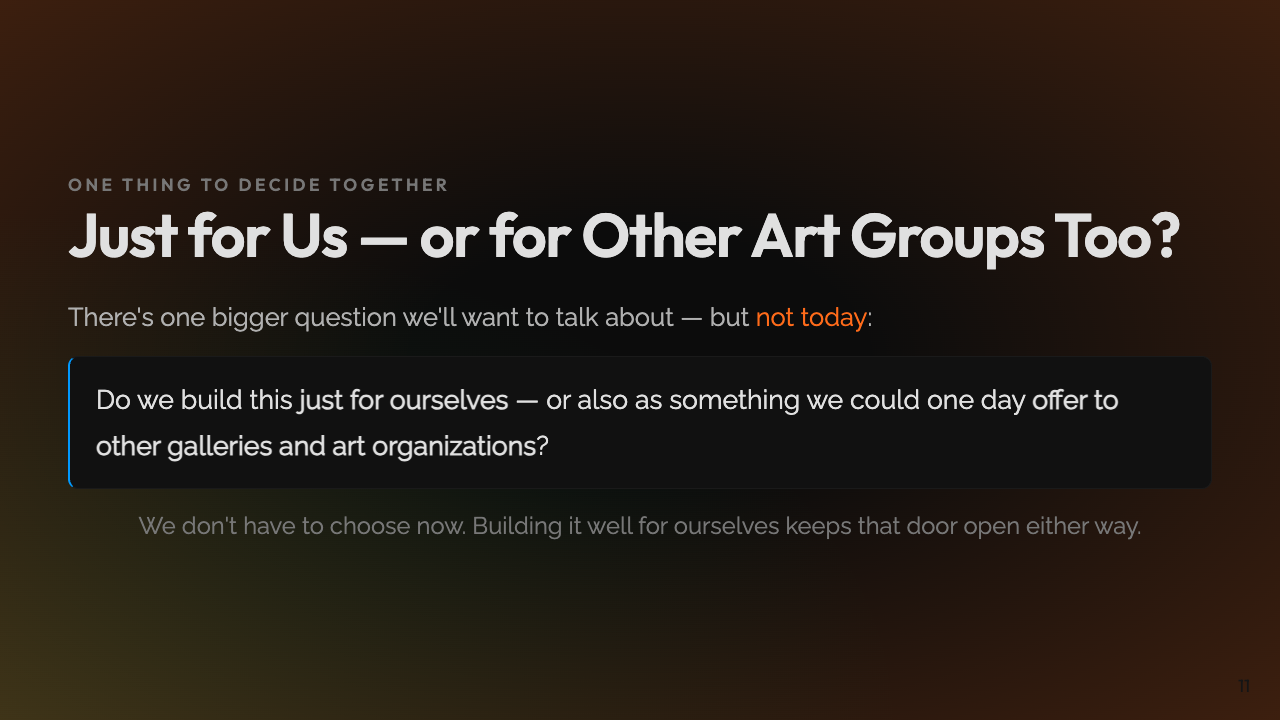
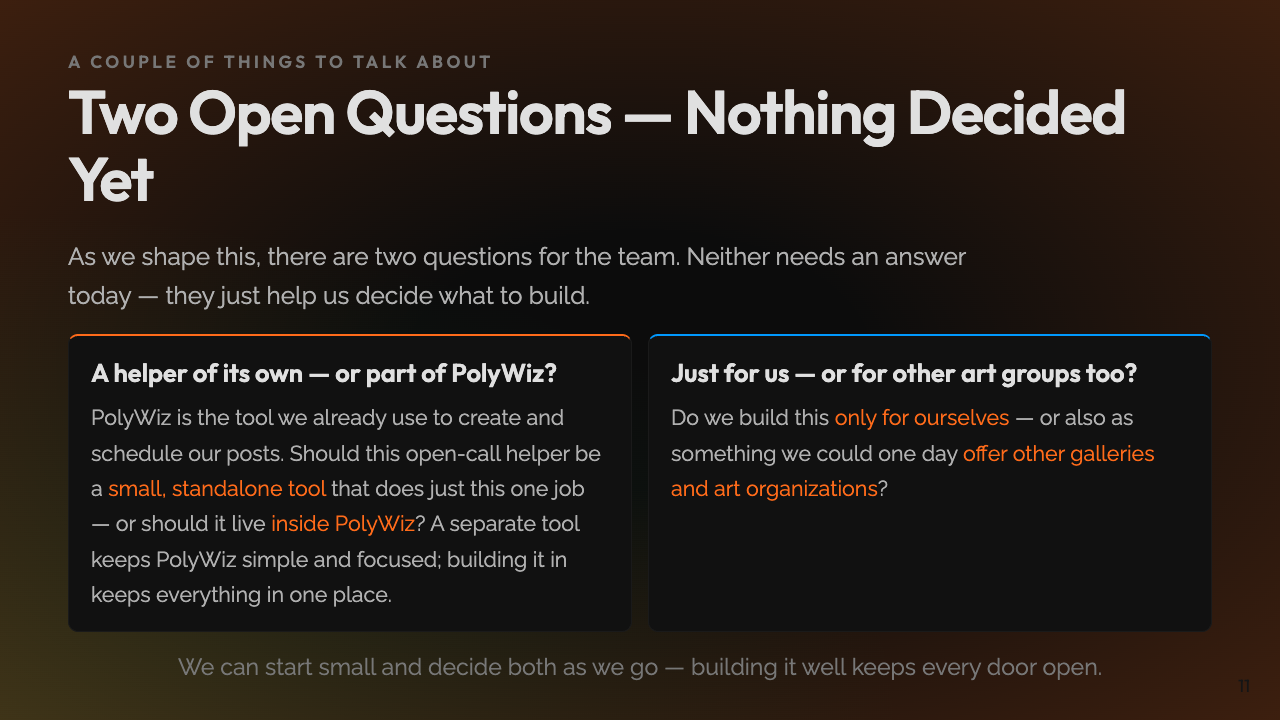
Stakeholder deck: add the standalone-vs-PolyWiz open question
Stakeholders already know PolyWiz, and whether the open-call helper is a
standalone quick-check utility or part of PolyWiz is an open question.
Reframed the closing decision slide from one question to two (plain
English): "a helper of its own — or part of PolyWiz?" alongside the
existing "just for us — or for other art groups too?". Re-exported
stakeholder deck (light/dark html, light pdf, audit).

diff --git a/exports/exhibit-promo-tool-stakeholders-light.html b/exports/exhibit-promo-tool-stakeholders-light.html
@@ -768,13 +768,20 @@ table, thead, tbody, tr, th, td { background: transparent !important; }
 a { color: inherit; }
 " lang="C" class="bg-glow" data-marpit-pagination="11" style="--paginate:true;--class:bg-glow;--theme:default;--style:@import url('https://fonts.googleapis.com/css2?family=Outfit:wght@400;600;700;800&amp;family=Inter:wght@300;400;500&amp;display=swap')
 ;" data-marpit-pagination-total="12">
-<h3 id="one-thing-to-decide-together">One Thing to Decide Together</h3>
-<h1 id="just-for-us--or-for-other-art-groups-too">Just for Us — or for Other Art Groups Too?</h1>
-<div style="font-size: 0.88em; color: var(--body); margin-top: 10px; max-width: 880px; line-height: 1.65;">There's one bigger question we'll want to talk about — but <strong>not today</strong>:</div>
-<div style="margin-top: 18px; background: var(--s); border: 1px solid var(--b); border-left: 2px solid var(--blue); border-radius: 10px; padding: 20px 26px;">
-  <div style="font-size: 0.92em; color: var(--t); line-height: 1.7;">Do we build this <strong style="color:var(--t); font-weight:600;">just for ourselves</strong> — or also as something we could one day <strong style="color:var(--t); font-weight:600;">offer to other galleries and art organizations</strong>?</div>
+<h3 id="a-couple-of-things-to-talk-about">A Couple of Things to Talk About</h3>
+<h1 id="two-open-questions--nothing-decided-yet">Two Open Questions — Nothing Decided Yet</h1>
+<div style="font-size: 0.84em; color: var(--body); margin-top: 8px; max-width: 900px; line-height: 1.6;">As we shape this, there are two questions for the team. Neither needs an answer today — they just help us decide what to build.</div>
+<div style="display: flex; gap: 16px; margin-top: 18px;">
+  <div style="flex: 1; background: var(--s); border: 1px solid var(--b); border-top: 2px solid var(--a); border-radius: 10px; padding: 18px 22px;">
+    <div style="font-family: 'Outfit'; font-weight: 600; font-size: 0.88em; color: var(--t); margin-bottom: 8px;">A helper of its own — or part of PolyWiz?</div>
+    <div style="font-size: 0.74em; color: var(--body); line-height: 1.65;">PolyWiz is the tool we already use to create and schedule our posts. Should this open-call helper be a <strong>small, standalone tool</strong> that does just this one job — or should it live <strong>inside PolyWiz</strong>? A separate tool keeps PolyWiz simple and focused; building it in keeps everything in one place.</div>
+  </div>
+  <div style="flex: 1; background: var(--s); border: 1px solid var(--b); border-top: 2px solid var(--blue); border-radius: 10px; padding: 18px 22px;">
+    <div style="font-family: 'Outfit'; font-weight: 600; font-size: 0.88em; color: var(--t); margin-bottom: 8px;">Just for us — or for other art groups too?</div>
+    <div style="font-size: 0.74em; color: var(--body); line-height: 1.65;">Do we build this <strong>only for ourselves</strong> — or also as something we could one day <strong>offer other galleries and art organizations</strong>?</div>
+  </div>
 </div>
-<div style="margin-top: 18px; font-size: 0.82em; color: var(--m); line-height: 1.6; text-align: center;">We don't have to choose now. Building it well for ourselves keeps that door open either way.</div>
+<div style="margin-top: 16px; font-size: 0.8em; color: var(--m); line-height: 1.6; text-align: center;">We can start small and decide both as we go — building it well keeps every door open.</div>
 </section>
 </foreignObject></svg><svg data-marpit-svg="" viewBox="0 0 1280 720"><foreignObject width="1280" height="720"><section id="12" data-paginate="true" data-class="lead bg-hero" data-theme="default" data-style="@import url('https://fonts.googleapis.com/css2?family=Outfit:wght@400;600;700;800&amp;family=Inter:wght@300;400;500&amp;display=swap');
 

diff --git a/exports/exhibit-promo-tool-stakeholders.html b/exports/exhibit-promo-tool-stakeholders.html
@@ -867,13 +867,20 @@ table, thead, tbody, tr, th, td { background: transparent !important; }
 a { color: inherit; }
 " lang="C" class="bg-glow" data-marpit-pagination="11" style="--paginate:true;--class:bg-glow;--theme:default;--style:@import url('https://fonts.googleapis.com/css2?family=Outfit:wght@400;600;700;800&amp;family=Raleway:wght@100;200;300;400&amp;display=swap')
 ;" data-marpit-pagination-total="12">
-<h3 id="one-thing-to-decide-together">One Thing to Decide Together</h3>
-<h1 id="just-for-us--or-for-other-art-groups-too">Just for Us — or for Other Art Groups Too?</h1>
-<div style="font-size: 0.88em; color: var(--body); margin-top: 10px; max-width: 880px; line-height: 1.65;">There's one bigger question we'll want to talk about — but <strong>not today</strong>:</div>
-<div style="margin-top: 18px; background: var(--s); border: 1px solid var(--b); border-left: 2px solid var(--blue); border-radius: 10px; padding: 20px 26px;">
-  <div style="font-size: 0.92em; color: var(--t); line-height: 1.7;">Do we build this <strong style="color:var(--t); font-weight:600;">just for ourselves</strong> — or also as something we could one day <strong style="color:var(--t); font-weight:600;">offer to other galleries and art organizations</strong>?</div>
+<h3 id="a-couple-of-things-to-talk-about">A Couple of Things to Talk About</h3>
+<h1 id="two-open-questions--nothing-decided-yet">Two Open Questions — Nothing Decided Yet</h1>
+<div style="font-size: 0.84em; color: var(--body); margin-top: 8px; max-width: 900px; line-height: 1.6;">As we shape this, there are two questions for the team. Neither needs an answer today — they just help us decide what to build.</div>
+<div style="display: flex; gap: 16px; margin-top: 18px;">
+  <div style="flex: 1; background: var(--s); border: 1px solid var(--b); border-top: 2px solid var(--a); border-radius: 10px; padding: 18px 22px;">
+    <div style="font-family: 'Outfit'; font-weight: 600; font-size: 0.88em; color: var(--t); margin-bottom: 8px;">A helper of its own — or part of PolyWiz?</div>
+    <div style="font-size: 0.74em; color: var(--body); line-height: 1.65;">PolyWiz is the tool we already use to create and schedule our posts. Should this open-call helper be a <strong>small, standalone tool</strong> that does just this one job — or should it live <strong>inside PolyWiz</strong>? A separate tool keeps PolyWiz simple and focused; building it in keeps everything in one place.</div>
+  </div>
+  <div style="flex: 1; background: var(--s); border: 1px solid var(--b); border-top: 2px solid var(--blue); border-radius: 10px; padding: 18px 22px;">
+    <div style="font-family: 'Outfit'; font-weight: 600; font-size: 0.88em; color: var(--t); margin-bottom: 8px;">Just for us — or for other art groups too?</div>
+    <div style="font-size: 0.74em; color: var(--body); line-height: 1.65;">Do we build this <strong>only for ourselves</strong> — or also as something we could one day <strong>offer other galleries and art organizations</strong>?</div>
+  </div>
 </div>
-<div style="margin-top: 18px; font-size: 0.82em; color: var(--m); line-height: 1.6; text-align: center;">We don't have to choose now. Building it well for ourselves keeps that door open either way.</div>
+<div style="margin-top: 16px; font-size: 0.8em; color: var(--m); line-height: 1.6; text-align: center;">We can start small and decide both as we go — building it well keeps every door open.</div>
 </section>
 </foreignObject></svg><svg data-marpit-svg="" viewBox="0 0 1280 720"><foreignObject width="1280" height="720"><section id="12" data-paginate="true" data-class="lead bg-hero" data-theme="default" data-style="@import url('https://fonts.googleapis.com/css2?family=Outfit:wght@400;600;700;800&amp;family=Raleway:wght@100;200;300;400&amp;display=swap');
 

diff --git a/presentations/exhibit-promo-tool-stakeholders.light.md b/presentations/exhibit-promo-tool-stakeholders.light.md
@@ -293,17 +293,24 @@ footer: ''
 
 <!-- _class: bg-glow -->
 
-### One Thing to Decide Together
+### A Couple of Things to Talk About
 
-# Just for Us — or for Other Art Groups Too?
+# Two Open Questions — Nothing Decided Yet
 
-<div style="font-size: 0.88em; color: var(--body); margin-top: 10px; max-width: 880px; line-height: 1.65;">There's one bigger question we'll want to talk about — but <strong>not today</strong>:</div>
+<div style="font-size: 0.84em; color: var(--body); margin-top: 8px; max-width: 900px; line-height: 1.6;">As we shape this, there are two questions for the team. Neither needs an answer today — they just help us decide what to build.</div>
 
-<div style="margin-top: 18px; background: var(--s); border: 1px solid var(--b); border-left: 2px solid var(--blue); border-radius: 10px; padding: 20px 26px;">
-  <div style="font-size: 0.92em; color: var(--t); line-height: 1.7;">Do we build this <strong style="color:var(--t); font-weight:600;">just for ourselves</strong> — or also as something we could one day <strong style="color:var(--t); font-weight:600;">offer to other galleries and art organizations</strong>?</div>
+<div style="display: flex; gap: 16px; margin-top: 18px;">
+  <div style="flex: 1; background: var(--s); border: 1px solid var(--b); border-top: 2px solid var(--a); border-radius: 10px; padding: 18px 22px;">
+    <div style="font-family: 'Outfit'; font-weight: 600; font-size: 0.88em; color: var(--t); margin-bottom: 8px;">A helper of its own — or part of PolyWiz?</div>
+    <div style="font-size: 0.74em; color: var(--body); line-height: 1.65;">PolyWiz is the tool we already use to create and schedule our posts. Should this open-call helper be a <strong>small, standalone tool</strong> that does just this one job — or should it live <strong>inside PolyWiz</strong>? A separate tool keeps PolyWiz simple and focused; building it in keeps everything in one place.</div>
+  </div>
+  <div style="flex: 1; background: var(--s); border: 1px solid var(--b); border-top: 2px solid var(--blue); border-radius: 10px; padding: 18px 22px;">
+    <div style="font-family: 'Outfit'; font-weight: 600; font-size: 0.88em; color: var(--t); margin-bottom: 8px;">Just for us — or for other art groups too?</div>
+    <div style="font-size: 0.74em; color: var(--body); line-height: 1.65;">Do we build this <strong>only for ourselves</strong> — or also as something we could one day <strong>offer other galleries and art organizations</strong>?</div>
+  </div>
 </div>
 
-<div style="margin-top: 18px; font-size: 0.82em; color: var(--m); line-height: 1.6; text-align: center;">We don't have to choose now. Building it well for ourselves keeps that door open either way.</div>
+<div style="margin-top: 16px; font-size: 0.8em; color: var(--m); line-height: 1.6; text-align: center;">We can start small and decide both as we go — building it well keeps every door open.</div>
 
 ---
 

diff --git a/presentations/exhibit-promo-tool-stakeholders.md b/presentations/exhibit-promo-tool-stakeholders.md
@@ -301,17 +301,24 @@ footer: ''
 
 <!-- _class: bg-glow -->
 
-### One Thing to Decide Together
+### A Couple of Things to Talk About
 
-# Just for Us — or for Other Art Groups Too?
+# Two Open Questions — Nothing Decided Yet
 
-<div style="font-size: 0.88em; color: var(--body); margin-top: 10px; max-width: 880px; line-height: 1.65;">There's one bigger question we'll want to talk about — but <strong>not today</strong>:</div>
+<div style="font-size: 0.84em; color: var(--body); margin-top: 8px; max-width: 900px; line-height: 1.6;">As we shape this, there are two questions for the team. Neither needs an answer today — they just help us decide what to build.</div>
 
-<div style="margin-top: 18px; background: var(--s); border: 1px solid var(--b); border-left: 2px solid var(--blue); border-radius: 10px; padding: 20px 26px;">
-  <div style="font-size: 0.92em; color: var(--t); line-height: 1.7;">Do we build this <strong style="color:var(--t); font-weight:600;">just for ourselves</strong> — or also as something we could one day <strong style="color:var(--t); font-weight:600;">offer to other galleries and art organizations</strong>?</div>
+<div style="display: flex; gap: 16px; margin-top: 18px;">
+  <div style="flex: 1; background: var(--s); border: 1px solid var(--b); border-top: 2px solid var(--a); border-radius: 10px; padding: 18px 22px;">
+    <div style="font-family: 'Outfit'; font-weight: 600; font-size: 0.88em; color: var(--t); margin-bottom: 8px;">A helper of its own — or part of PolyWiz?</div>
+    <div style="font-size: 0.74em; color: var(--body); line-height: 1.65;">PolyWiz is the tool we already use to create and schedule our posts. Should this open-call helper be a <strong>small, standalone tool</strong> that does just this one job — or should it live <strong>inside PolyWiz</strong>? A separate tool keeps PolyWiz simple and focused; building it in keeps everything in one place.</div>
+  </div>
+  <div style="flex: 1; background: var(--s); border: 1px solid var(--b); border-top: 2px solid var(--blue); border-radius: 10px; padding: 18px 22px;">
+    <div style="font-family: 'Outfit'; font-weight: 600; font-size: 0.88em; color: var(--t); margin-bottom: 8px;">Just for us — or for other art groups too?</div>
+    <div style="font-size: 0.74em; color: var(--body); line-height: 1.65;">Do we build this <strong>only for ourselves</strong> — or also as something we could one day <strong>offer other galleries and art organizations</strong>?</div>
+  </div>
 </div>
 
-<div style="margin-top: 18px; font-size: 0.82em; color: var(--m); line-height: 1.6; text-align: center;">We don't have to choose now. Building it well for ourselves keeps that door open either way.</div>
+<div style="margin-top: 16px; font-size: 0.8em; color: var(--m); line-height: 1.6; text-align: center;">We can start small and decide both as we go — building it well keeps every door open.</div>
 
 ---
 